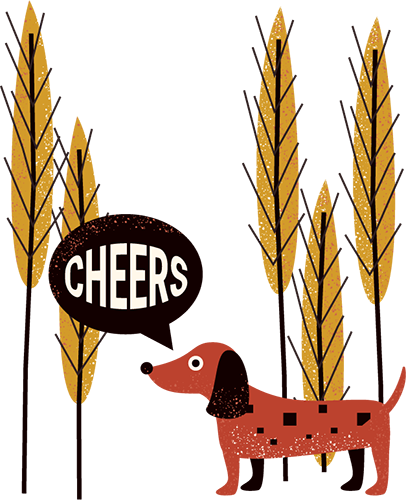
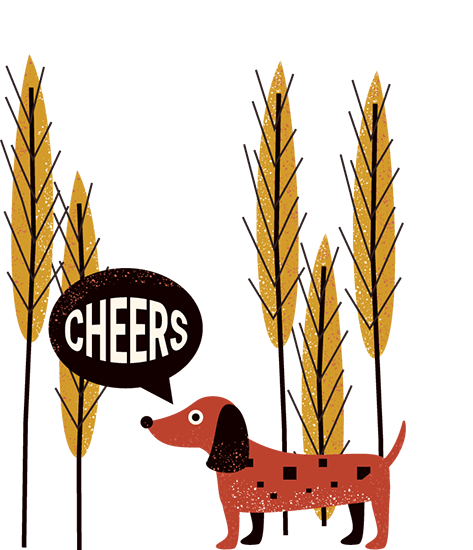
images and responsive in place

diff --git a/new.html b/new.html
@@ -96,7 +96,7 @@ e.async=true;var t=document.getElementsByTagName("script")[0];t.parentNode.inser
 .custom-container {
 	display: flex;
 	justify-content: center;
-	padding: 0 10px 60px 10px;
+	padding: 0 10px 0 10px;
 	align-items: center;
 }
 .noto {
@@ -121,7 +121,7 @@ h1.noto {
 	align-items: center;
 	text-align: center;
 	padding: 0 0 30px;
-	width: 380px;
+	width: 450px;
 	flex-wrap: wrap;
 }
 .link, .link:visited, .link:active {
@@ -132,7 +132,7 @@ h1.noto {
 	padding: 15px 0 18px;
 	transition-duration: .5s;
 	text-decoration: none;
-	width: 250px;
+	width: 325px;
 	margin: 10px;
 	display: block;
 	font-size: 26px;
@@ -146,23 +146,42 @@ h1.noto {
 	transition-duration: .5s;
 }
 
-@media (max-width:940px) {
+@media (max-width: 650px) {
+.link-wrapper {
+	width: auto;
+}
 h1.noto {
 	text-transform: uppercase;
 	color: #000;
-	font-size: 65px;
-	margin: 60px 0;
+	font-size: 56px;
+	margin: 30px 0 0;
 	text-align: center;
+	letter-spacing: normal;
 }
 }
 
-@media (max-width: 850px) {
+@media (max-width:940px) {
+}
+
+@media (max-width: 1130px) {
+.custom-container {
+	align-items: end;
+}
+}
+
+@media (max-width: 1000px) {
 .custom-container {
 	display: flex;
 	justify-content: center;
-	padding: 30px 10px 10px;
+	padding: 30px 10px 0;
 	flex-direction: column;
 	align-items: center;
+}
+.box-one {
+	display: none;
+}
+.link-wrapper {
+	padding-bottom: 0;
 }
 }
 </style>
@@ -341,14 +360,14 @@ height="0" width="0" style="display:none;visibility:hidden"></iframe>
       <h1 class="noto">Celebrate!</h1>
     </div>
     <div class="custom-container">
-      <div class="box-one"></div>
+      <div class="box-one"><img class="img-responsive" src="barrel.png" alt=""></div>
       <div class="box-two">
         <div class="link-wrapper"> <a href="brew-tour/" class="link">Cheers to the<br>
           Brew Tour</a> <a href="https://www.eventbrite.com/e/a-family-fete-hansel-gretels-gingerbread-cottage-tickets-325212628727?aff=websitehomepage" target="_blank" class="link">Family Fête:<br>
           Hansel & Gretel </a><a href="reserve-a-space/" class="link">Throw a<br>
           Party</a> </div>
       </div>
-      <div class="box-three"><img src="cheers-dog.png" alt="Cheers!"></div>
+      <div class="box-three"><img class="img-responsive" src="cheers-dog.png" alt=""></div>
     </div>
   </div>
   <!-- InstanceEndEditable --> </div>
